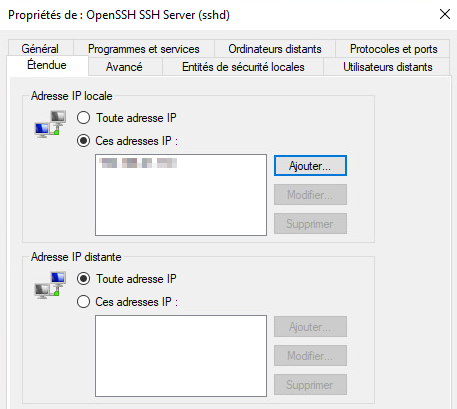
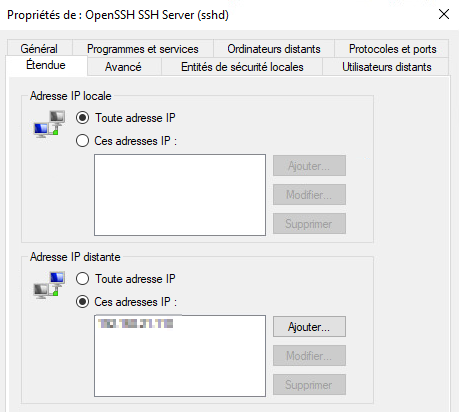
new file:   docs/Serveurs 1/Assets/06/RegleICMPWindows.png 	modified:   docs/Serveurs 1/Assets/06/RegleWindowsOpenSSH.png 	new file:   docs/Serveurs 1/Assets/06/TestNetConnection.png 	new file:   docs/Serveurs 1/Assets/06/WinSessionSSH.png 	new file:   docs/Serveurs 1/Assets/06/fisrtSSH.png 	modifie

diff --git a/docs/Serveurs 1/Cours 6 - Services, journalisation & pare-feu/01-Laboratoire6.md b/docs/Serveurs 1/Cours 6 - Services, journalisation & pare-feu/01-Laboratoire6.md
@@ -39,13 +39,15 @@ Dans ce laboratoire, nous prendrons pour acquis le poste de travail sous Windows
 | Ubuntu Serveur 24.04 LTS | 192.168.21.10 |
 | Windows 10 | 192.168.21.110 (statique) |
 
-### Préparation du serveur Windows
+### Windows Serveur
+
+#### Préparation du serveur
 
 - Si ce n'est pas déjà fait, assurez-vous que votre serveur Windows ait bien une adresse IP statique ainsi qu'un nom convenable (Pas WIN-8JHL1J92)
 
 - Assurez-vous que votre serveur soit sur un profil de connexion privé.
 
-### Installation du service SSH sous Windows
+#### Installation du service SSH sous Windows
 
 - Nous allons à présent installer un service SSH sur notre serveur Windows. Cela dit, ce service ne devra être accessible que par le poste de travail Windows 10 (le poste de l'administrateur). Ouvrez le panneau des parmètres Windows et dirigez-vous dans la section « Applications ». De là, cliquez sur « Fonctionnalités facultatives » puis « Ajouter une fonctionnalité ».
 
@@ -53,27 +55,41 @@ Dans ce laboratoire, nous prendrons pour acquis le poste de travail sous Windows
 
 - Dans la liste des fonctionnalités qui sont disponibles, installez la fonctionnalité « Serveur OpenSSH ». Une fois installé, ce service nous permettra d'atteindre la ligne de commande du serveur à distance.
 
-### Ajustement des règles du pare-feu
+#### Ajustement des règles du pare-feu (SSH)
 
 - Si vous ne faites aucune modification, quiconque possédant un compte et un mot de passe sur le serveur pourrait s'y connecter en utilisant le protocole SSH, et ce, depuis n'importe quel poste. Ce que nous souhaitons faire ici, c'est non seulement autorisé la connexion seulement aux gens possédant un compte et un mot de passe, mais en plus, limiter l'accès depuis un seul poste.
 
-- Ouvrez les règles du pare-feu Windows en tapant la commande `wf.msc` depuis la fenêtre « Exécuter » que pouvez ouvrir à l'aide du raccourci clavier <kbd>&#8862; win</kbd>+<kbd>r</kbd>. Dans les règles de trafic entrant, repérez cette règle:
+- Ouvrez les règles du pare-feu Windows en tapant la commande `wf.msc` depuis la fenêtre « Exécuter » que vous pouvez ouvrir à l'aide du raccourci clavier <kbd>&#8862; win</kbd>+<kbd>r</kbd>. Dans les règles de trafic entrant, repérez cette règle:
 
     ![OpenSSHRule](../Assets/06/OpenSSHRule.png)
 
     Ouvrez les propriétés de la règle en effectuant un clic à l'aide du bouton de droite de votre souris sur celle-ci et en sélectionnant « propriétés ».
 
-- Dans les propriétés, sélectionnez l'onglet « Étendue » et modifiez la section « Adresse IP locale » pour n'autorisez que l'adresse IP du poste de travail sous Windows 10.
+- Dans les propriétés, sélectionnez l'onglet « Étendue » et modifiez la section « Adresse IP distante » pour n'autorisez que l'adresse IP du poste de travail sous Windows 10.
 
     ![RegleWindowsOpenSSH](../Assets/06/RegleWindowsOpenSSH.png)
 
-    > *Oui mais Gabriel, qu'en est-il des Adresses IP distantes dans l'onglet étendue ? Doit-on également mettre une adresse IP particulière ici ?*
+    > *Oui mais Gabriel, qu'en est-il des Adresses IP locales dans l'onglet étendue ? Doit-on également mettre une adresse IP particulière ici ?*
     >
     > *-Les étudiants*
 
-    On les appelle des adresses IP distantes pour une raison bien simple: Elles ne font pas parties du réseau local. Dans ce cours, Serveurs 1, nous nous préoccupons surtout du réseau local. Pour l'instant, vous n'avez rien à modifier dans la section « Adresse IP distante ».
+    Cette fenêtre réfère aux adresses IP impliquées lors de la connexion à travers le pare-feu. Il y a l'adresse IP qui tente de se connecter, l'adresse IP distante (le pc distant si vous préférez) et il y a l'adresse IP local, c'est-à-dire l'adresse IP concernée sur le serveur qui offre le service.
 
-### Démarrage du service SSH
+#### Ajustement des règles du pare-feu (Ping)
+
+Ce que l'on nomme un « PING », c'est l'envoi d'un paquet très rudimentaire afin de valider la bonne connectivité entre deux éléments du réseau. Le « PING » utilise le protocole icmpv4 pour fonctionner. Le pare-feu de Windows Serveur bloque ce protocole par défaut. Il nous faut donc autoriser celui-ci:
+
+- Ouvrez les règles du pare-feu Windows en tapant la commande `wf.msc` depuis la fenêtre « Exécuter » que vous pouvez ouvrir à l'aide du raccourci clavier <kbd>&#8862; win</kbd>+<kbd>r</kbd>. Dans les règles de trafic entrant, repérez cette règle:
+
+    ![RegleICMPv4Win](../Assets/06/RegleICMPWindows.png)
+
+    Ouvrez les propriétés de la règle en effectuant un clic à l'aide du bouton de droite de votre souris sur celle-ci et en sélectionnant « propriétés ».
+
+- Dans les propriétés, sélectionnez l'onglet « Étendue » et modifiez la section « Adresse IP distante » pour autoriser le sous-réseau local en entrant l'adresse `192.168.21.0/24`
+
+- Appliquez vos modifications et activez la règle. 
+
+#### Démarrage du service SSH
 
 Bien que vous ayez installé la fonctionnalité nécessaire à l'utilisation du protocole SSH, le service lui, n'est pas démarré. Pour démarrer le service, utilisez la commande Powershell suivante:
 
@@ -87,10 +103,37 @@ Si vous désirez faire en sorte que le service démarre automatiquement lorsque 
 Get-Service sshd | Set-Service -StartupType Automatic
 ```
 
-### Tentative de connexion
+#### Tentative de connexion
 
-Depuis le poste de travail sous Windows 10, tentez d'ouvrir une session via SSH sur votre serveur 2022. Pour ce faire, entrez la commande suivante:
+La première étape avant de vous connecter au serveur à l'aide du protocole SSH consiste à vérifier si vous êtes en mesure de communiquer avec ce-dernier. C'est exactement l'utilité de la commande `ping`: vérifier la capacité de deux hôtes de communiquer entre eux via le réseau.
+
+Ouvrez donc un terminal sous votre poste de travail Windows 10 et tapez la commande suivate:
+
+```Powershell
+Test-NetConnection 192.168.21.20
+```
+
+Si tout est fonctionnel, vous devriez obtenir un résultat similaire à celui-ci:
+
+![ResultatPing](../Assets/06/TestNetConnection.png)
+
+Une fois que vous aurez confirmé que la communication entre les deux hôtes fonctionne bien, tentez d'ouvrir une session SSH, depuis votre poste de travail sous Windows 10, vers votre serveur 2022. Pour ce faire, entrez la commande suivante:
 
 ```Powershell
 ssh Administrateur@192.168.21.20
 ```
+:::important
+<u>Si vous vous branchez au serveur à distance pour la première fois, vous obtiendrez ce message:</u><br/><br/>
+
+![PremiereConnexion](../Assets/06/fisrtSSH.png)
+
+Ce message stipule que l'ordinateur auquel vous vous connectez n'est pas reconnu. C'est normal dans ce cas-ci puisque nous nous y sommes jamais connecté. Vous devez donc confirmer que vous désirez bien vous y connecter en entrant la réponse `yes` à la question. Sachez cependant que si vous obtenez ce message alors que ce n'est pas la première fois que vous vous connectez au serveur, il pourrait y avoir un enjeu de sécurité.
+:::
+
+Lorsque votre sessions SSH sera bien lancée, vous devriez obtenir une ligne de commande semblable à celle-ci:
+
+![WindowsSessionSSH](../Assets/06/WinSessionSSH.png)
+
+Toutes les commandes lancées sur ce terminal seront exécutées sur le serveur à distance.
+
+### Serveur Linux
